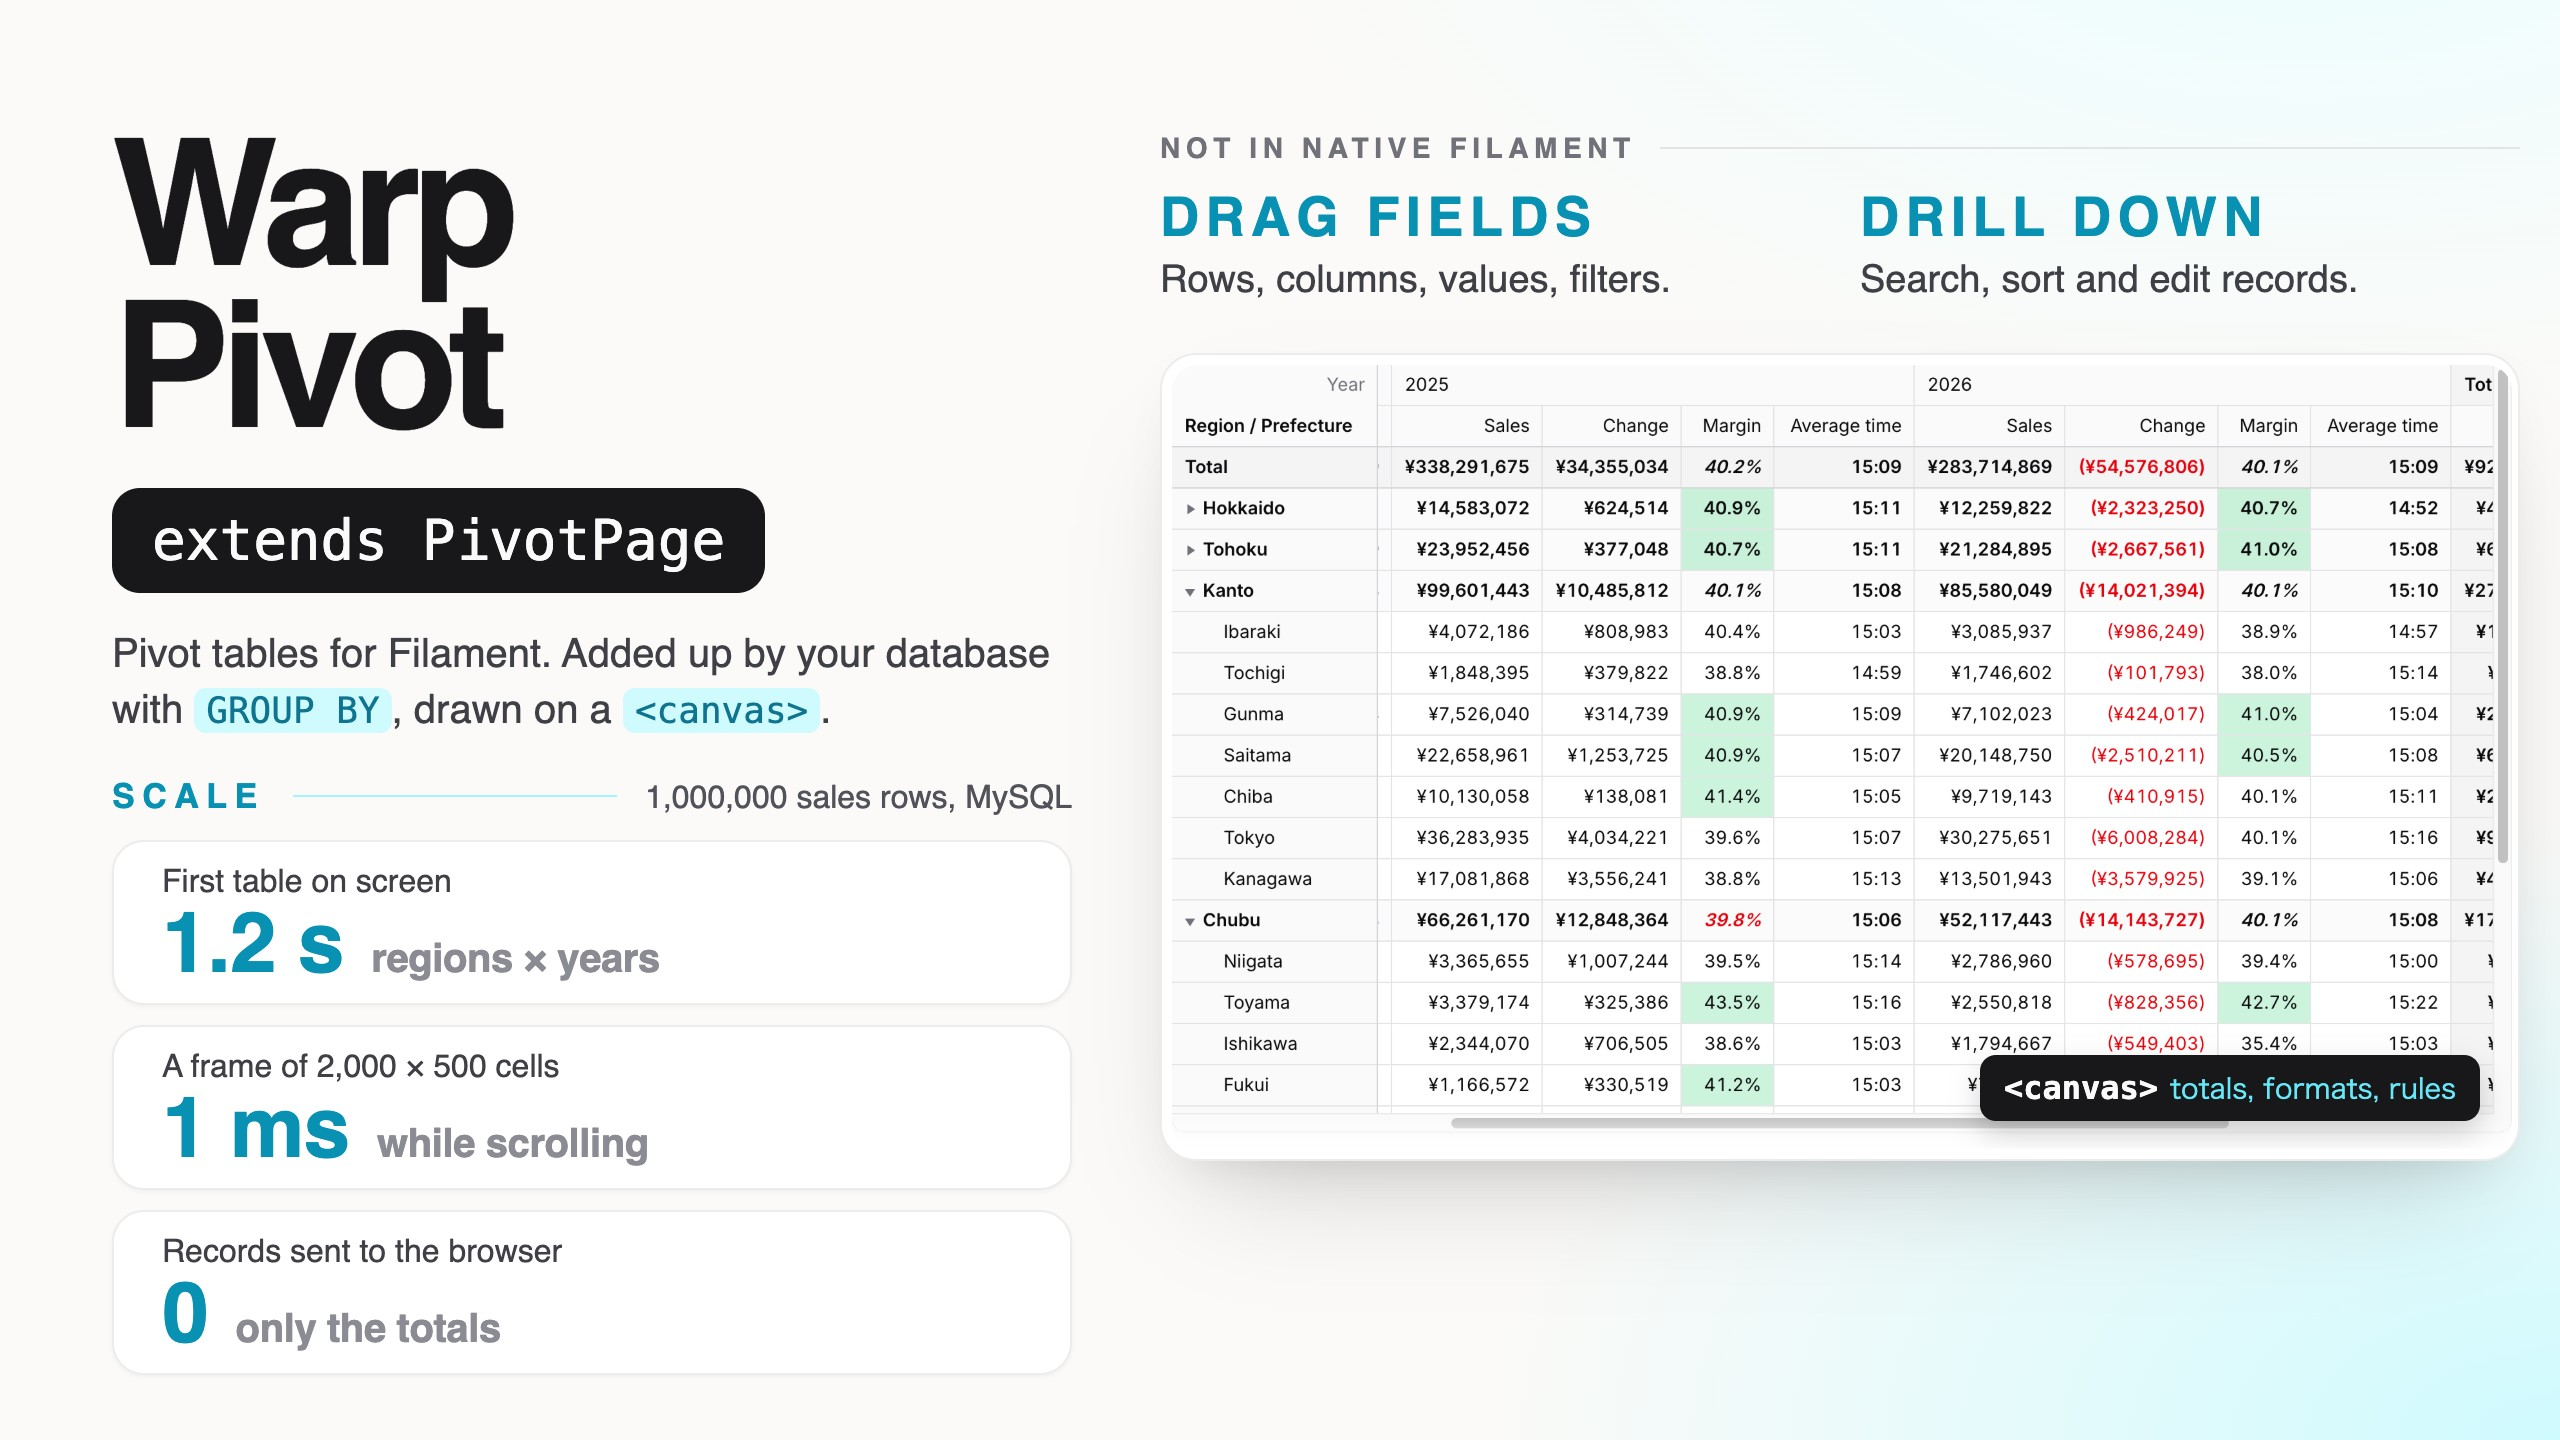
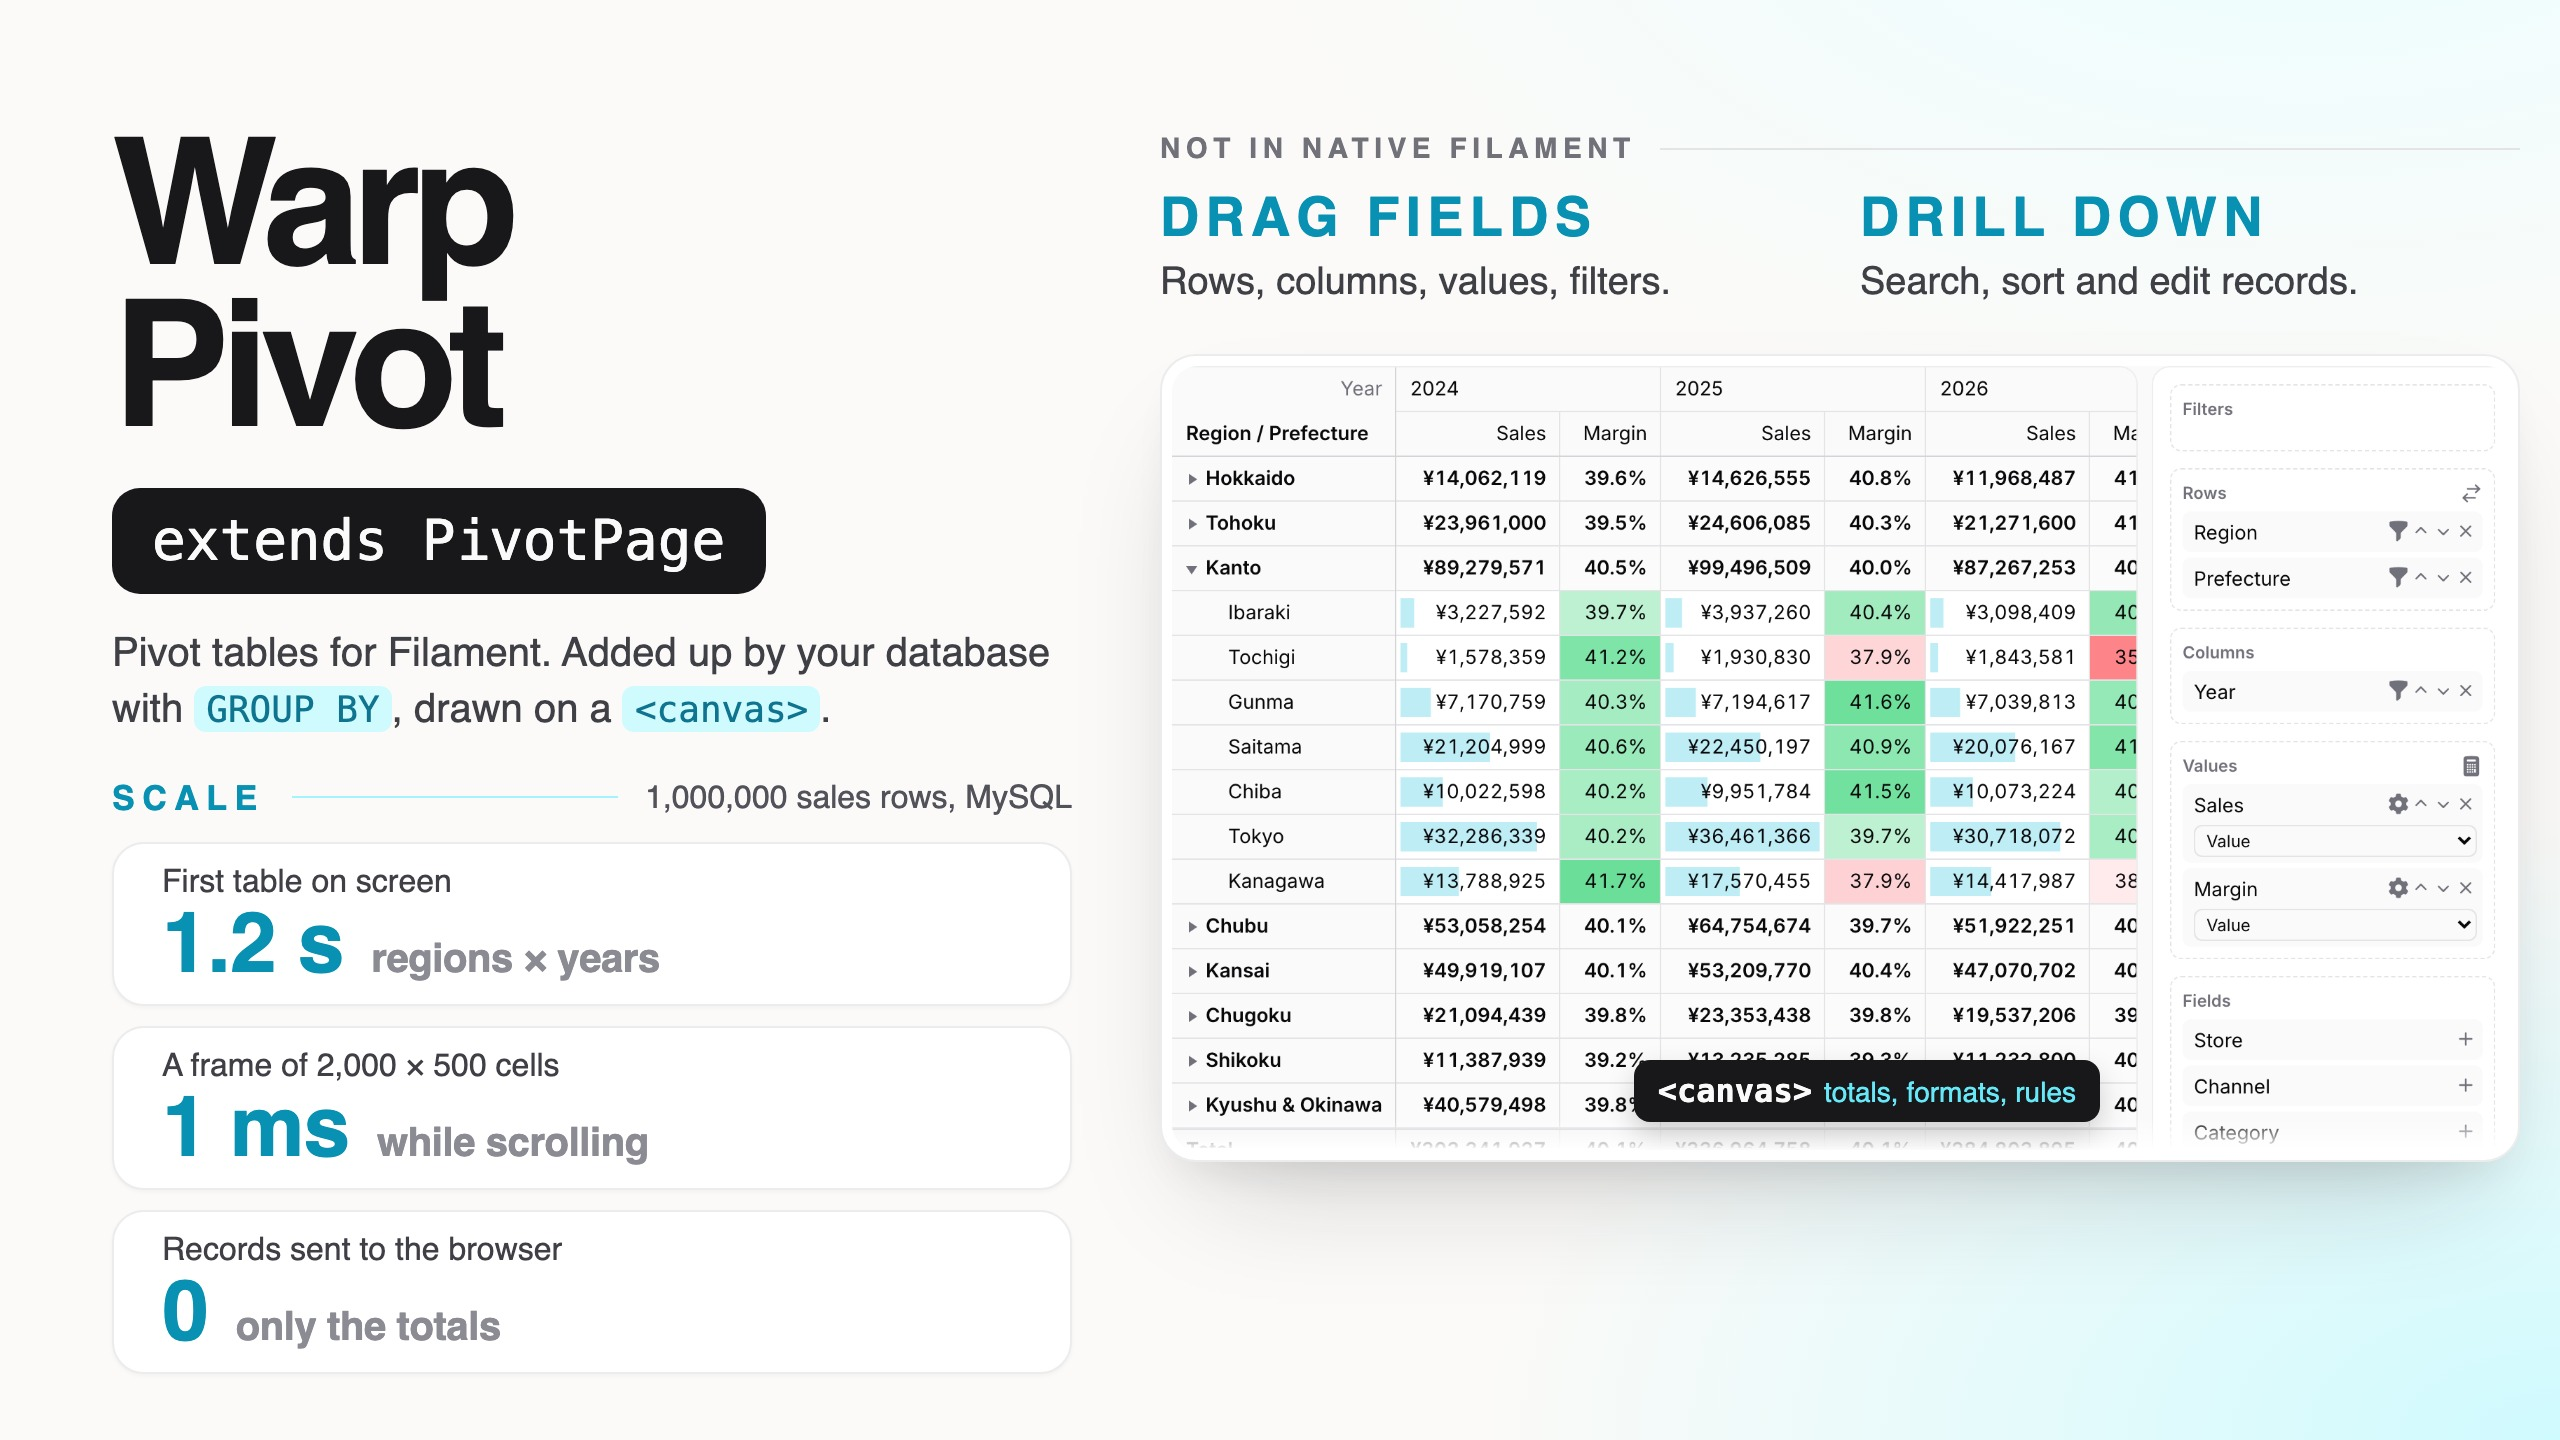
1.1.0

diff --git a/README.md b/README.md
@@ -287,7 +287,7 @@ $pivot->defaultExpanded(rows: 0, columns: 1);
 
 `maxCells(200_000)` (the default) caps the cells sent at once. When a result would be larger, the extra headers are left out with a warning, and subtotals and totals still include them.
 
-### Filters, permissions and tenancy
+### Filters and permissions
 
 `filters()` takes Filament table filters. They appear in a dropdown above the pivot, like on a table.
 
@@ -298,7 +298,98 @@ $pivot->filters([
 ]);
 ```
 
-When the model has a policy, `viewAny` decides who may see the pivot. Override it with `authorize(fn (): bool => …)`. With panel tenancy, records are scoped to the current tenant like resources are; use `scopeToTenant(false)` or `scopeToTenant(relationship: 'team')` to change that.
+When the model has a policy, `viewAny` decides who may see the pivot. Override it with `authorize(fn (): bool => …)`.
+
+### Tenancy
+
+If your panel uses [Filament's multi-tenancy](https://filamentphp.com/docs/users/tenancy) (each team, shop or company sees only its own data), the pivot follows it. You don't have to filter the query yourself: the pivot keeps to the current tenant in the same way a resource does.
+
+A complete panel, where a user can belong to several teams:
+
+```php
+use App\Models\Team;
+use Filament\Panel;
+
+public function panel(Panel $panel): Panel
+{
+    return $panel
+        ->id('app')
+        ->path('app')
+        ->tenant(Team::class, slugAttribute: 'slug')
+        ->pages([SalesReport::class]);
+}
+```
+
+```php
+// app/Models/Sale.php — each sale belongs to a team
+public function team(): BelongsTo
+{
+    return $this->belongsTo(Team::class);
+}
+
+// app/Models/User.php — implements FilamentUser and HasTenants
+public function teams(): BelongsToMany
+{
+    return $this->belongsToMany(Team::class);
+}
+
+public function getTenants(Panel $panel): Collection
+{
+    return $this->teams;
+}
+
+public function canAccessTenant(Model $tenant): bool
+{
+    return $this->teams()->whereKey($tenant)->exists();
+}
+```
+
+```php
+class SalesReport extends PivotPage
+{
+    public function pivot(Pivot $pivot): Pivot
+    {
+        // No where('team_id', …) needed
+        return $pivot->query(Sale::class)->rows(['store'])->values([Sum::make('amount')]);
+    }
+}
+```
+
+What is kept to the current tenant:
+
+- The totals, the charts and the export.
+- The records in the drill-down, editing a cell there, the record actions (`EditAction`, `DeleteAction` and so on) and the records a cell action gets from `cellQuery()`. A record of another tenant can't be opened, changed or deleted, even when its key is sent from the browser.
+- The values offered in the field panel's filter lists.
+- Saved layouts. A layout saved in one team, shared or not, is not listed, opened or deleted in another team, or in a panel without tenancy.
+
+How the records are matched to the tenant, as Filament does it for resources:
+
+- The relationship to the tenant is the one the panel names (`->tenant(Team::class, ownershipRelationship: 'owner')`), or by default the tenant model's name in camel case (`team` for `Team`).
+- A `BelongsTo` or `MorphTo` relationship compares the key column. Any other relationship (many-to-many, `HasManyThrough`) keeps the records that have the tenant among their related records.
+- When the pivot reads the tenant model itself (`query(Team::class)`), only the current tenant is counted.
+- In a panel without tenancy, nothing is filtered.
+
+Change it per pivot:
+
+```php
+// Another relationship to the tenant, for this pivot only (here a many-to-many one)
+$pivot->query(Store::class)->scopeToTenant(relationship: 'teams');
+
+// Records that all tenants share (a list of countries, say)
+$pivot->query(Country::class)->scopeToTenant(false);
+```
+
+Columns and migrations: your tables need what Filament's tenancy needs anyway, such as a `team_id` column for a `BelongsTo` relationship, or a pivot table for a many-to-many one. Warp Pivot's own table, `warp_pivot_views`, already has `tenant_type` and `tenant_id`. They are text columns, so number, UUID and ULID keys all work, for tenants and for users.
+
+Updating from 1.0.1 or earlier: run `php artisan migrate`. A new migration turns `tenant_id` and `owner_id` from number columns into text columns and keeps the saved layouts.
+
+Things to know:
+
+- When the model has no relationship by that name, the pivot stops with an error that says what to do, instead of showing every tenant's records. Add the relationship, name another one with `scopeToTenant(relationship: …)`, or call `scopeToTenant(false)`.
+- When the model also has a resource in the panel, Filament itself adds a tenant scope to every query of that model in the panel. `scopeToTenant(false)` turns off only the pivot's own scope, not Filament's.
+- Filters you write yourself are your queries. A `SelectFilter::make('store')->relationship('store', 'name')` lists every store, unless the `Store` model has a resource in the panel. When stores belong to a team, keep the list to the tenant with the third argument: `->relationship('store', 'name', fn (Builder $query) => $query->whereBelongsTo(Filament::getTenant()))`.
+- Validation rules for `drillDownEditable()` are plain Laravel rules. For a value that must be unique within a team, add the tenant to the rule: `Rule::unique('sales', 'code')->where('team_id', Filament::getTenant()->getKey())`.
+- A pivot on a Livewire component outside a panel has no current tenant, so nothing is filtered. Filter the query yourself there.
 
 ### Layouts
 

diff --git a/CHANGELOG.md b/CHANGELOG.md
@@ -7,6 +7,22 @@ and this project adheres to [Semantic Versioning](https://semver.org/spec/v2.0.0
 
 ## [Unreleased]
 
+## [1.1.0] - 2026-10-25
+
+### Upgrading
+
+- Run `php artisan migrate` after updating. The new `update_warp_pivot_views_keys_to_strings` migration turns
+  `warp_pivot_views.owner_id` and `tenant_id` into text columns and keeps the saved layouts.
+
+### Added
+
+- A "Tenancy" section in the README: a full panel example, what is kept to the current tenant, how the relationship is found, and things to know.
+
+### Changed
+
+- `warp_pivot_views.owner_id` and `tenant_id` are text columns, so users and tenants with UUID or ULID keys can save layouts (MySQL, MariaDB and PostgreSQL refused them before). Run `php artisan migrate` after updating: a new migration changes the columns of an existing table and keeps the saved layouts. `PivotView::$owner_id` and `$tenant_id` are now strings.
+- When the model has no relationship to the tenant, the pivot says how to fix it (name another relationship with `scopeToTenant(relationship: …)`, or turn the scope off) instead of failing with "Call to undefined method".
+
 ## [1.0.1] - 2026-10-20
 
 ### Added
